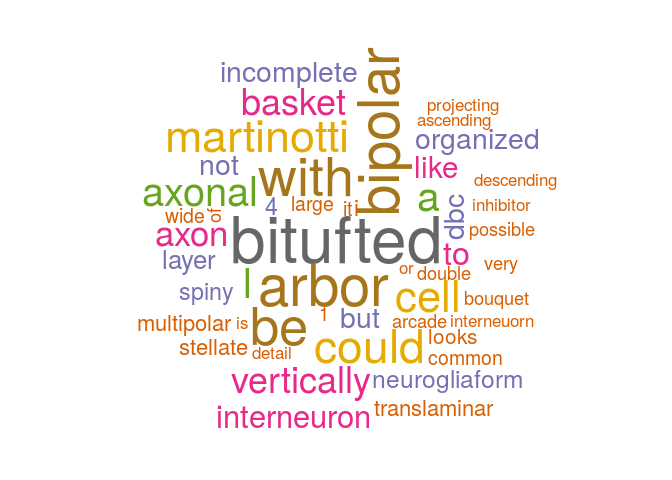
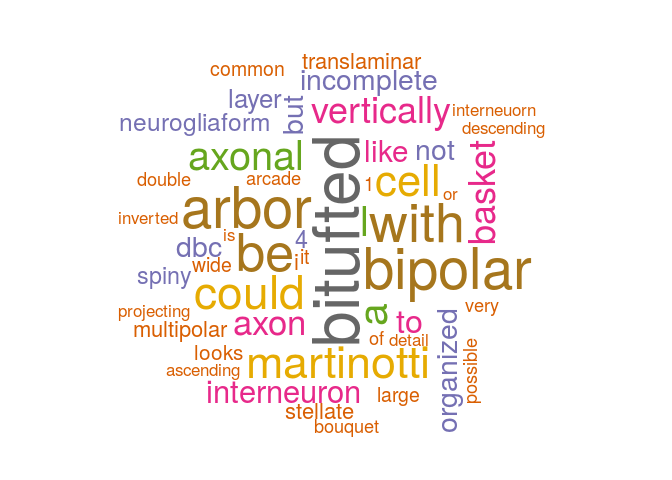
add definitions wordcloud

Changed region(s): [[0.1562, 0.0938, 0.8438, 0.9062]]

diff --git a/README.md b/README.md
@@ -366,5 +366,27 @@ alt %>%  count(type, sort = TRUE)      %>%  with(wordcloud(type, n, random.order
 
 ``` r
 alt <- alternative 
-alt$definition <- as.character(alternative$definition )
+alt$definition <- as.character(alternative$definition )   
+alt <- alt %>% unnest_tokens(definition, definition)
+alt <- alt %>% anti_join(get_stopwords(), by = c("definition" = "word"))
+alt %>%  count(definition, sort = TRUE)      
+#> # A tibble: 427 x 2
+#>    definition     n
+#>    <chr>      <int>
+#>  1 axonal        37
+#>  2 cells         30
+#>  3 cell          25
+#>  4 see           22
+#>  5 layer         20
+#>  6 soma          18
+#>  7 arbor         15
+#>  8 domain        15
+#>  9 layers        14
+#> 10 dendritic     13
+#> # … with 417 more rows
+alt %>%  count(definition, sort = TRUE)      %>%  with(wordcloud(definition, n, random.order = FALSE, max.words = 50 , colors= brewer.pal(8,"Dark2")))
 ```
+
+![](README-unnamed-chunk-17-1.png)
+
+\`\`\`
